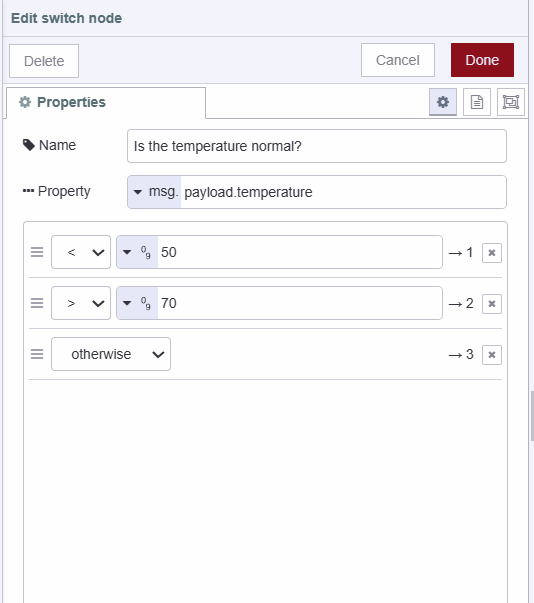
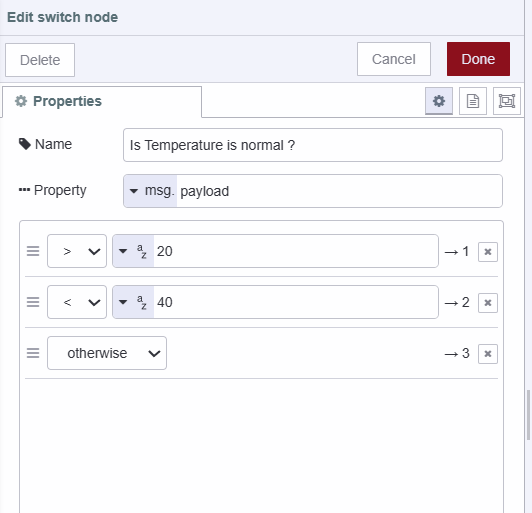
update blog

Changed region(s): [[0.0, 0.0, 1.0, 1.0]]

diff --git a/src/blog/2024/04/using-webhook-with-node-red.md b/src/blog/2024/04/using-webhook-with-node-red.md
@@ -69,7 +69,7 @@ Having a separate server for webhooks is crucial as it will receive data from mu
 
 !["Screenshot displaying webhook http-in nodes configuration"](./images/using-webhook-with-node-red-http-in-node-endpoint-for-receiving-data-from-server-2.png "Screenshot displaying webhook http-in nodes configuration"){data-zoomable}
 
-- Drag an **http request** node onto the canvas. Configure the method as POST and set the URL to `https://<your-instance-name>.flowfuse.cloud/schedule-maintenance`, replace <your-instance-name> with your actual name of the instance. **/schedule-maintenance** will be the endpoint for posting requests to the maintenance monitoring system provided by Server 3. 
+- Drag an **http request** node onto the canvas. Configure the method as POST and set the URL to `https://<your-instance-name-in-which-server-3-running>.flowfuse.cloud/schedule-maintenance`, replace <your-instance-name> with your actual name of the instance. **/schedule-maintenance** will be the endpoint for posting requests to the maintenance monitoring system provided by Server 3. 
 
 !["Screenshot displaying http request nodes configuration for sending post request to server 3"](./images/using-webhook-with-node-red-request-node-sending-request-to-server3.png "Screenshot displaying http request nodes configuration for sending post request to server 3"){data-zoomable}
 
@@ -87,16 +87,24 @@ While writing this blog, I connected my DHT11 sensor to my Raspberry Pi 4, and I
 4. Search for `node-red-contrib-dht-sensor`.
 5. Click "Install"
 
-### Reading sensor data
+### Reading and formating sensor data
 
 Before proceeding with this step, it is necessary to run Node-RED on your Raspberry Pi as a superuser and ensure that the DHT11 sensor is correctly connected with wires. Also, make sure to install the [BCM2835](https://www.airspayce.com/mikem/bcm2835/).
 
 1. Drag an **inject** node onto the canvas and set the interval to your preference so that it triggers readings after a specific interval of time.
-2. Drag an **rpi-dht11** sensor node onto the canvas.
+
+!["Screenshot displaying the rpi-dht22 node's configuration for reading data from dht 11 sensor"](./images/using-webhook-with-node-red-dht-sensor-node.png "Screenshot displaying the rpi-dht22 node's configuration for reading data from dht 11 sensor"){data-zoomable}
+
+2. Drag an **rpi-dht22** sensor node onto the canvas (This node will return the object containing humidity, payload etc where payload is temperature).
 3. Select the sensor model. Since I am using the DHT11 sensor, I will select "DHT11."
 4. Choose the pin numbering as **BCM GPIO**.
 5. Select the GPIO pin to which your sensor's data output is connected.
-6. Connect the **inject** node's output to the **rpi-dht11** node's input.
+6. Drag the **change** node onto canvas.
+7. Set `msg.payload` to `{"Temperature":$number(payload),"name":topic}` as JSON expression.
+
+!["Screenshot of the change node formating sensor data"](./images/using-webhook-with-node-red-change-node-formating-sensor-data.png "Screenshot of the change node formating sensor data"){data-zoomable}
+
+6. Connect the **inject** node's output to the **rpi-dht22** node's input and **rpi-dht22** node's output to **change** node's input.
 
 ## Monitoring Temperature ( Server 1 )
 
@@ -104,11 +112,11 @@ Before proceeding with this step, it is necessary to run Node-RED on your Raspbe
 
 !["Screenshot displaying the switch node with conditions checking whether the temperature is normal or not"](./images/using-webhook-with-node-red-switch-node.png "Screenshot displaying the switch node with conditions checking whether the temperature is normal or not"){data-zoomable}
 
-2. Drag an **http request** node onto the canvas, click on it, set the method as POST, and set the URL as `https://<your-instance-name of webhook server>.flowfuse.cloud/test-webhook`
+2. Drag an **http request** node onto the canvas, click on it, set the method as POST, and set the URL as `https://<your-instance-name-in-which-webhook-server>.flowfuse.cloud/test-webhook`
 
 !["Screenshot displaying HTTP request node configuration for triggering or sending a POST request to the webhook server in case of abnormal temperature."](./images/using-webhook-with-node-red-webhook-trigger.png "Screenshot displaying HTTP request node configuration for triggering or sending a POST request to the webhook server in case of abnormal temperature."){data-zoomable}
 
-3. Connect the **rpi-dht22** node's output to the switch node's input and the http request node’s output to the first and second output of the switch node. then connect the third output of the switch node to the debug node.
+3. Connect the **change** node's output to the switch node's input and the **http request** node’s output to the first and second output of the switch node. then connect the third output of the switch node to the debug node.
 
 ## Setting Up a Server 3
 
@@ -119,7 +127,13 @@ Before moving further install Dashboard 2.0 as we will display the scheduled mai
 !["Screenshot displaying HTTP In node configuration for creating the POST request endpoint."](./images/using-webhook-with-node-red-http-in-node-endpoint-for-receiving-data-from-server-2.png "Screenshot displaying HTTP In node configuration for creating the POST request endpoint."){data-zoomable}
 
 2. Drag a **change** node onto the canvas, and set `msg.payload` to `msg.req.body`. Name this node "Set payload as request body."
-3. Drag another **change** node onto the canvas, and set `msg.payload` as `{ "ocured_at":$moment(), "temperature": payload.temperature, "name": payload.topic }` using JSON expression. Name this node "Format the payload."
+
+!["Screenshot displaying the change node setting payload as request body"](./images/using-webhook-with-node-red-change1-node.png "Screenshot displaying the change node setting payload as request body"){data-zoomable}
+
+3. Drag another **change** node onto the canvas, and set `msg.payload` as `{ "ocured_at":$moment(), "temperature": payload.temperature, "name": payload.name }` using JSON expression. Name this node "Format the payload."
+
+!["Screenshot displaying the change node formating sensor data"](./images/using-webhook-with-node-red-change2-node.png "Screenshot displaying the change node formating sensor data"){data-zoomable}
+
 4. Drag the **function** node onto Canvas and copy the below code in it.
 
 ```js
@@ -154,12 +168,16 @@ return msg;
 
 ### Deploying the flow
 
-!["Screenshot Displaying the flow of scheduled maintenance table"](./images/using-webhook-with-node-red-flow.png "Screenshot Displaying the flow of scheduled maintenance table"){data-zoomable}
+!["Screenshot Displaying the flow of server 1"](./images/using-webhook-with-node-red-server-1-instance.png "Screenshot Displaying the flow of server 1"){data-zoomable}
+
+!["Screenshot Displaying the flow of server 2"](./images/using-webhook-with-node-red-server-2-instance.png "Screenshot Displaying the flow of server 2"){data-zoomable}
+
+!["Screenshot Displaying the flow of server 3"](./images/using-webhook-with-node-red-server-3-instance.png "Screenshot Displaying the flow of scheduled maintenance table"){data-zoomable}
 
 - With your flow updated to include the above, click the "Deploy" button in the top-right of the Node-RED Editor.
 - Locate the 'Open Dashboard' button at the top-right corner of the Dashboard 2.0 sidebar and click on it to navigate to the dashboard.
 
-!["Screenshot Displaying the flow of scheduled maintenance table"](./images/using-webhook-with-node-red-scheduled-maintenance-table-dashboard-view.png "Screenshot Displaying the flow of scheduled maintenance table"){data-zoomable}
+!["Screenshot Displaying the flow of scheduled maintenance table"](./images/using-webhook-with-node-red-scheduled-maintenance-table-dashboard-view.gif "Screenshot Displaying the flow of scheduled maintenance table"){data-zoomable}
 
 ## Conclusion 
 
